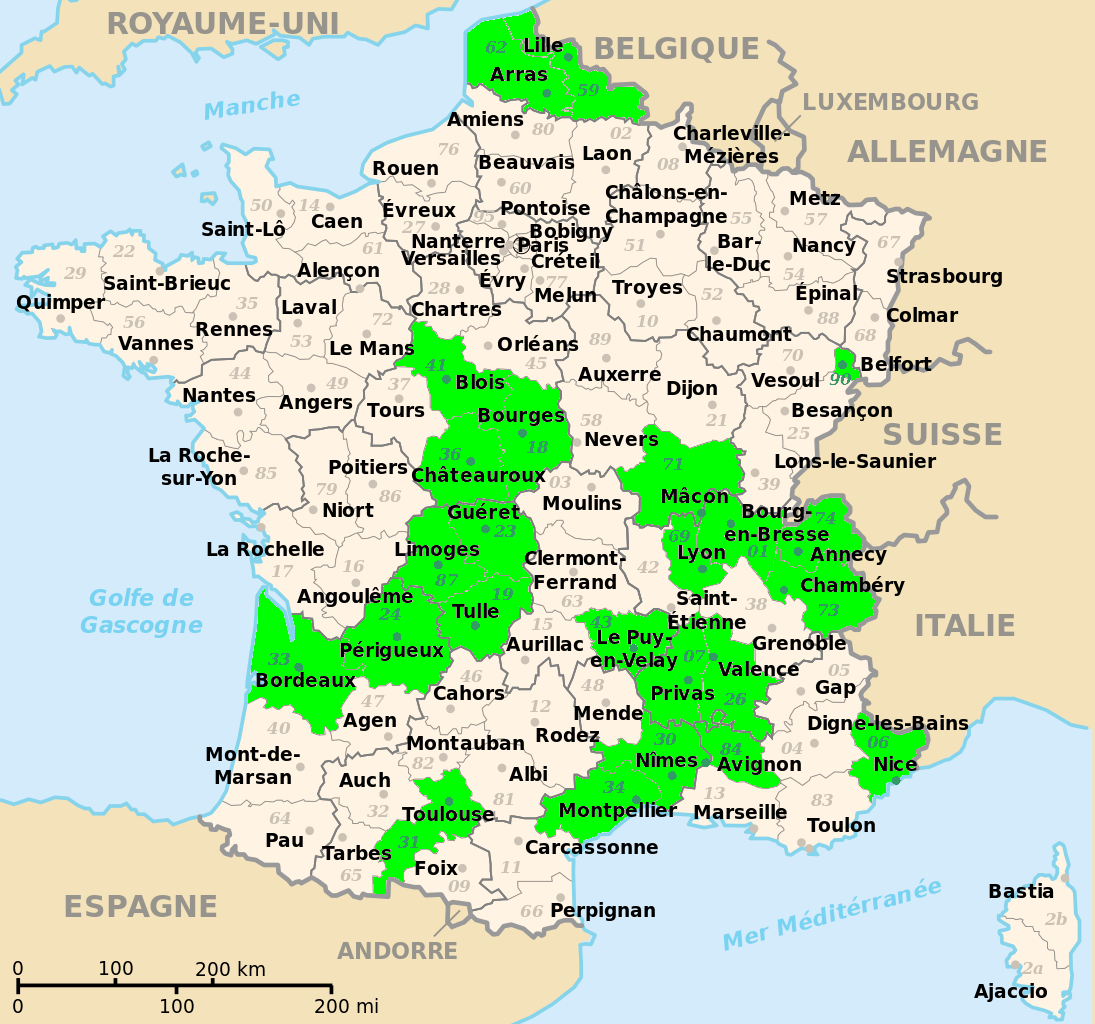
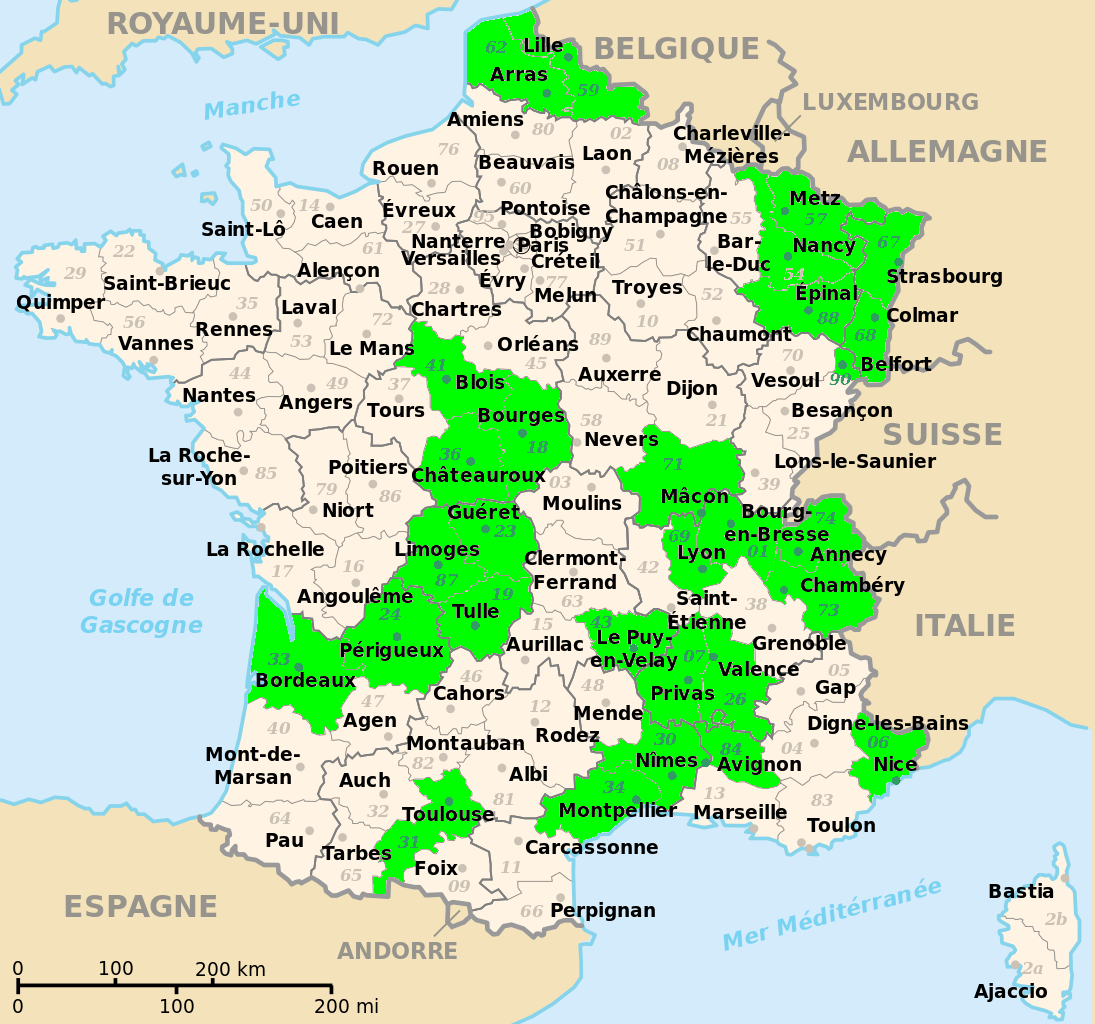
update cartes préfectures

Changed region(s): [[0.6831, 0.1562, 0.8384, 0.375]]

diff --git a/prefectures/index.html b/prefectures/index.html
@@ -76,7 +76,7 @@ a:visited {
 		<p>Inspiré par <a href="https://twitter.com/armire" target="_blank">Armire</a> et sa <a href="https://twitter.com/Armire/status/1005578232224206849"target="_blank">collection de panneaux de villes</a>,
 		je me suis lancé le défi de visiter et de me prendre en photo devant toutes les préfectures françaises.<br>
 		Et voici ma collection !<br>
-		(Dernière mise à jour le 27/06/2021)
+		(Dernière mise à jour le 28/06/2021)
 	   </p>
 	   <p><a href="../prefectures/FAQ">Lire la FAQ</a> · <a href="https://twitter.com/nicomygod/status/1311634164324741121" target="_blank">Lien du thread</a></p>
 	</center>
@@ -145,7 +145,7 @@ a:visited {
 				<path data-nom="Aube" data-numerodepartement="10" class="region-44 departement departement-10 departement-aube" d="m442.2,186.9l-3.6-1.5l-0.4-8.5l2.9-0.8l3-5 l3.2,4.5l9,1.2v-3.3l9.5-7.6l6.5-0.9l3.1,0.5l0.4,6.1l2.6,2c1.9,0.8,3.8,1.5,5.6,2.3l2.5-1.5l3.3,1.1l-0.6,3.4l2.4,5.2l5.6,3 l0.5,9.9l-0.1,2.7l-5.6,2.5l0.2,4.8l-3.9-0.5l-4.7,3.9l-6.1,0.9l-2.2,2l-2.9-1.4l-12.6,1.6l-5-10.9l-3.6-4.1l-2,2.2l-2.5-8.3 L442.2,186.9z"></path>
 				<path data-nom="Marne" data-numerodepartement="51" class="region-44 departement departement-51 departement-marne" d="m440.6,158.9l0.4-2l7.7-10.2l-2.5-1.3l0.8-2.7 l-1.6-2.4l5.5-2.3l-3.2-8l1.2-2.6l8-4l5.3,1.8l1-2.8l6.7,0.9l9.8,6.6l20.1,1.9l2.2,9l-1,4.1l2.6,1.3l-0.6,3.9l-3.1,1.1l-1.1,5.8 l3.2,4.6l0.5,4.1l-8.6,2.2l2.2,2.5l-2.3,2.2l0.7,2.9h-4.7l-3.3-1.1l-2.5,1.5c-1.8-0.8-3.7-1.5-5.6-2.3l-2.6-2l-0.4-6.1l-3.1-0.5 l-6.5,0.9l-9.5,7.6v3.3l-9-1.2l-3.2-4.5l-2.6-1.7l-3.5-8.3L440.6,158.9z"></path>
 				<path data-nom="Haute-Marne" data-numerodepartement="52" class="region-44 departement departement-52 departement-haute-marne" d="m493.9,167.9l8.6-2.2l3.4,5.2l16.9,10.4 l-2.4,2.3l12.7,9.5l-1.7,8.6l5.5,4.7l0.2,3.1l2.7-1.1l1.3,2.5v0.1l0.2,1.4l-2.3,3.2l-2.9-0.3l-2,2.4l-0.3,8.3l-3.2,1l-2.1-1.8 l-6.6,3.9l-1.2,2.5l-4.8,1.9v-2.8l-3-1.6l-9.2-2l-2.3-4.8l2.8-2.4l-1-3.1l-1.8-2.2l-2.9-0.3l0.3-2.9l-2.6-1l-0.5-2.7l-3.5-0.7 l-0.2-4.8l5.6-2.5l0.1-2.7l-0.5-9.9l-5.6-3l-2.4-5.2l0.6-3.4h4.7l-0.7-2.9l2.3-2.2L493.9,167.9z"></path>
-				<path data-nom="Meurthe-et-Moselle" data-numerodepartement="54" class="region-44 departement departement-54 departement-meurthe-et-moselle" d="m588.2,170.9l1.9,1.3l-1.5,0.4l-10.6,7.6l-6.1-1.6l-1.6-2.7l-5.3,3.8 l-6,1l-2.4-1.8l-5.4,2l-1.1,2.8l-5.7,0.7l-4.1-4.8l0.1-2.9l-5.8-0.6l0.2-2.9l-2.5-2l1.7-2.8l-1.3-8.6l2.2-13.8l0.9-2.7l-4.9-11.5 l1.5-5.9l-1.2-2.7l-4.4-4.8l-5.3,2l-0.7-5.3l4.8-1.7l2-1.9h6.8l2.54,2.31L539.6,124l2.5,1.6l1.2,3.6l-1.7,3.1l1,5.6l-2.8,0.1 l4.3,7.5l11.5,4l-0.3,2.9l2.7,5.1l8.5,1.5l5.3,3.9l14.4,5.3L588.2,170.9z"></path>
+				<a href="https://twitter.com/nicomygod/status/1409453605904601095" target="_blank"><path data-nom="Meurthe-et-Moselle" data-numerodepartement="54" class="ok" d="m588.2,170.9l1.9,1.3l-1.5,0.4l-10.6,7.6l-6.1-1.6l-1.6-2.7l-5.3,3.8 l-6,1l-2.4-1.8l-5.4,2l-1.1,2.8l-5.7,0.7l-4.1-4.8l0.1-2.9l-5.8-0.6l0.2-2.9l-2.5-2l1.7-2.8l-1.3-8.6l2.2-13.8l0.9-2.7l-4.9-11.5 l1.5-5.9l-1.2-2.7l-4.4-4.8l-5.3,2l-0.7-5.3l4.8-1.7l2-1.9h6.8l2.54,2.31L539.6,124l2.5,1.6l1.2,3.6l-1.7,3.1l1,5.6l-2.8,0.1 l4.3,7.5l11.5,4l-0.3,2.9l2.7,5.1l8.5,1.5l5.3,3.9l14.4,5.3L588.2,170.9z"></path></a>
 				<path data-nom="Meuse" data-numerodepartement="55" class="region-44 departement departement-55 departement-meuse" d="m516.2,107.97l1.2-0.07l1.5,1.6l1.9,5.6 l0.7,5.3l5.3-2l4.4,4.8l1.2,2.7l-1.5,5.9l4.9,11.5l-0.9,2.7l-2.2,13.8l1.3,8.6l-1.7,2.8l2.5,2l-0.2,2.9l-1.9,2.3l-3-0.5l-6.9,3.4 l-16.9-10.4l-3.4-5.2l-0.5-4.1l-3.2-4.6l1.1-5.8l3.1-1.1l0.6-3.9l-2.6-1.3l1-4.1l-2.2-9v-0.1l4.2-3.6l-1.4-2.5l3.2-5.1l-0.8-8.8 l1.9-2l5.7,2.1l2-2.7L516.2,107.97z"></path>
 				<a href="https://twitter.com/nicomygod/status/1408007572649619456" target="_blank"><path data-nom="Moselle" data-numerodepartement="57" class="ok" d="m539.6,124l-2.65-10.19l0.65,0.59h2.4l1.5,2.1 l2.3,0.7l2.3-0.5l1-2.3l2-1.2l2.2-0.2l4.5,2.3l4.9-0.1l3.1,3.8l2.3,1.9l-0.5,2l3.7,3.2l2.8,4.5v2.3l4.2,0.7l1.2-1.9l-0.3-2.4 l2.6-0.2l3.8,1.8l1.4,3.5l2.1-1.5l2.5,1.9l5.8-0.4l5.3-4.2l2.2,1.4l0.5,2.1l2.4,2.4l3.2,1.5h0.03l-1.73,4.4l-1.4,2.6l-8.9,0.3 l-9.1-4.6l-0.8-2.8l-5,10.8l5.5,2.4l-1.6,2.5l2.3,1.7l1.3-2.5l3,0.3l4.3,3.4l-3,13.3l-2.3,1.8l-3.4-0.3l-2-2.7l-14.4-5.3l-5.3-3.9 l-8.5-1.5l-2.7-5.1l0.3-2.9l-11.5-4l-4.3-7.5l2.8-0.1l-1-5.6l1.7-3.1l-1.2-3.6L539.6,124z"></path></a>
 				<a href="https://twitter.com/nicomygod/status/1407640972905828359" target="_blank"><path data-nom="Bas-Rhin" data-numerodepartement="67" class="ok" d="m631.8,140.7l-2.8,9.4l-7.8,10.5l-2,1.5l-1.4,3.3l0.3,4.9l-2.4,7.2 l0.7,3.6l-1.5,2l-1.2,5.5l-3.16,6.23L605.9,193l-0.3-2.8l-8.5-5.6l-3.1-0.2l-5.2-2.2l1.3-10l-1.9-1.3l3.4,0.3l2.3-1.8l3-13.3 l-4.3-3.4l-3-0.3l-1.3,2.5l-2.3-1.7l1.6-2.5l-5.5-2.4l5-10.8l0.8,2.8l9.1,4.6l8.9-0.3l1.4-2.6l1.73-4.4l8.87,0.6l2.4-0.6 L631.8,140.7z"></path></a>
